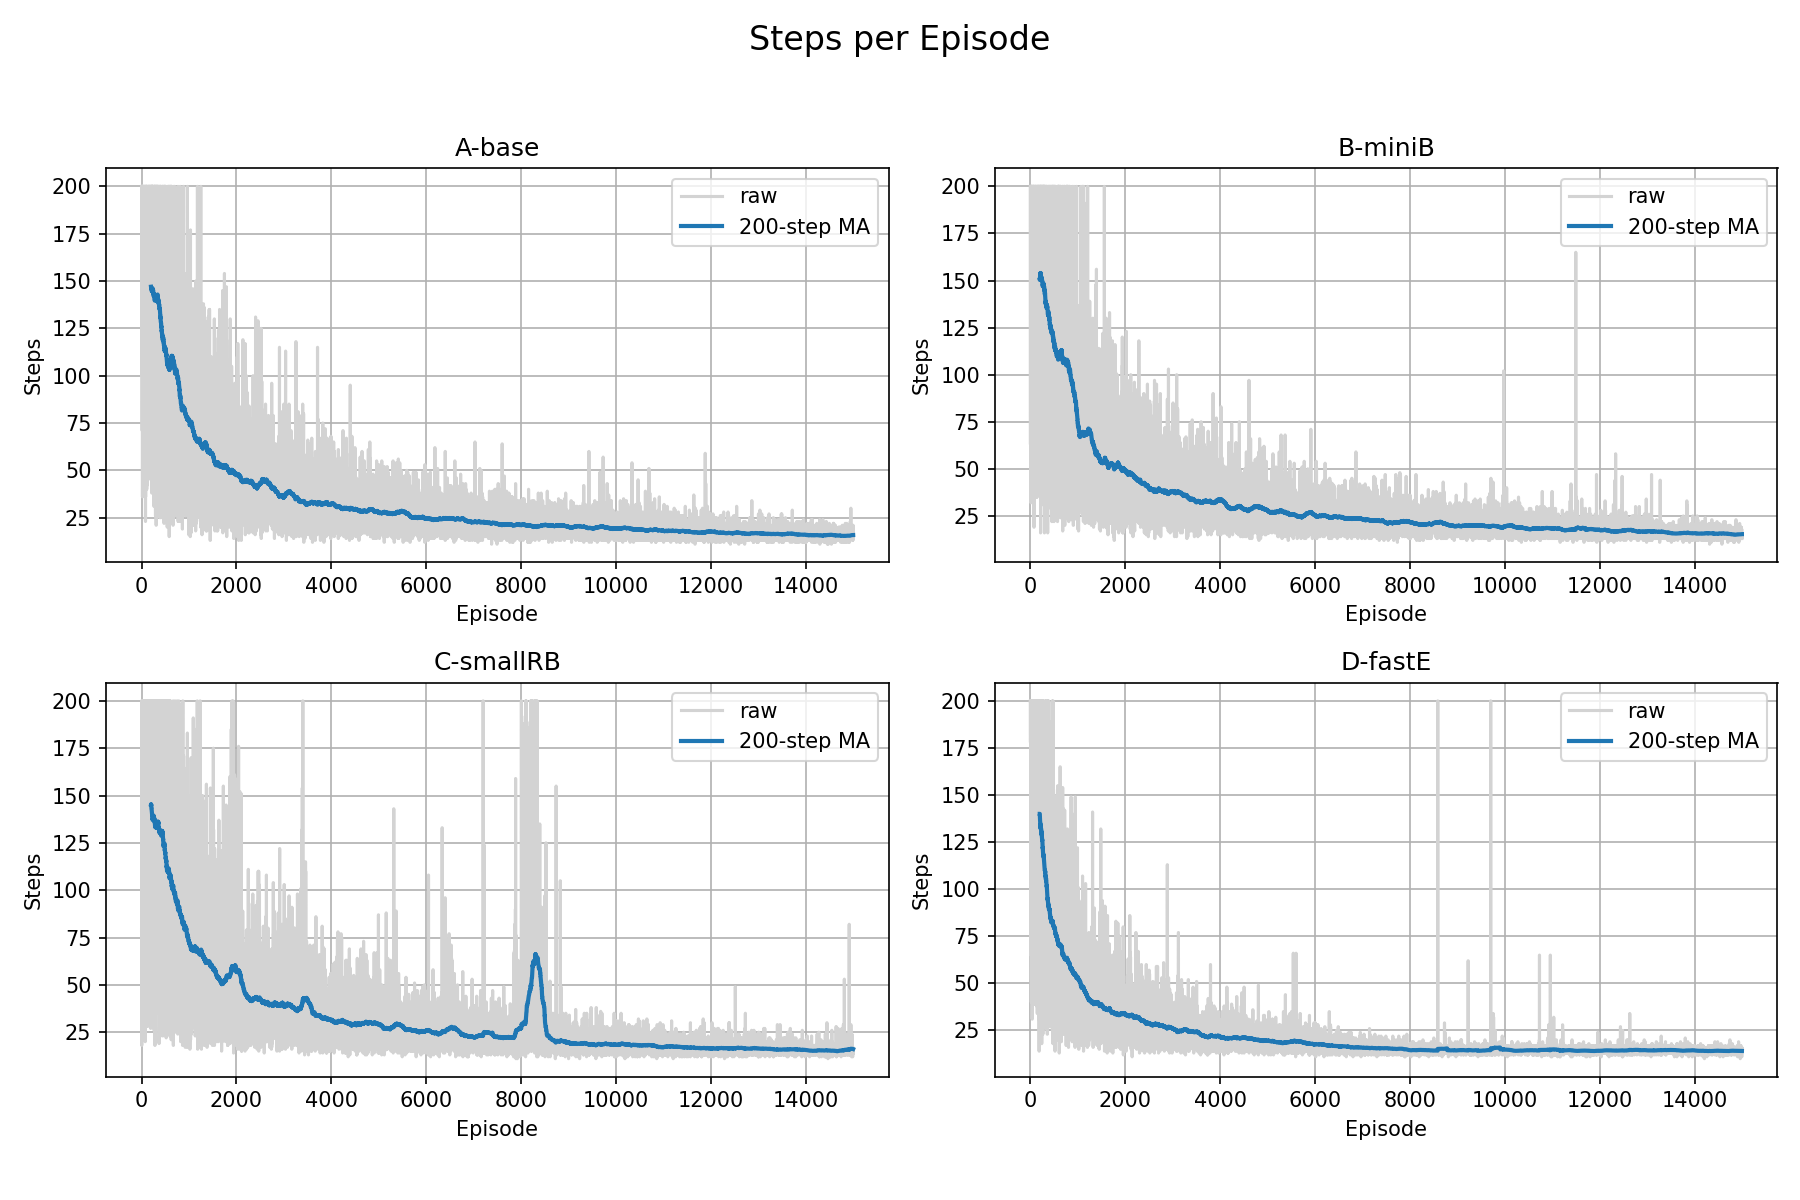
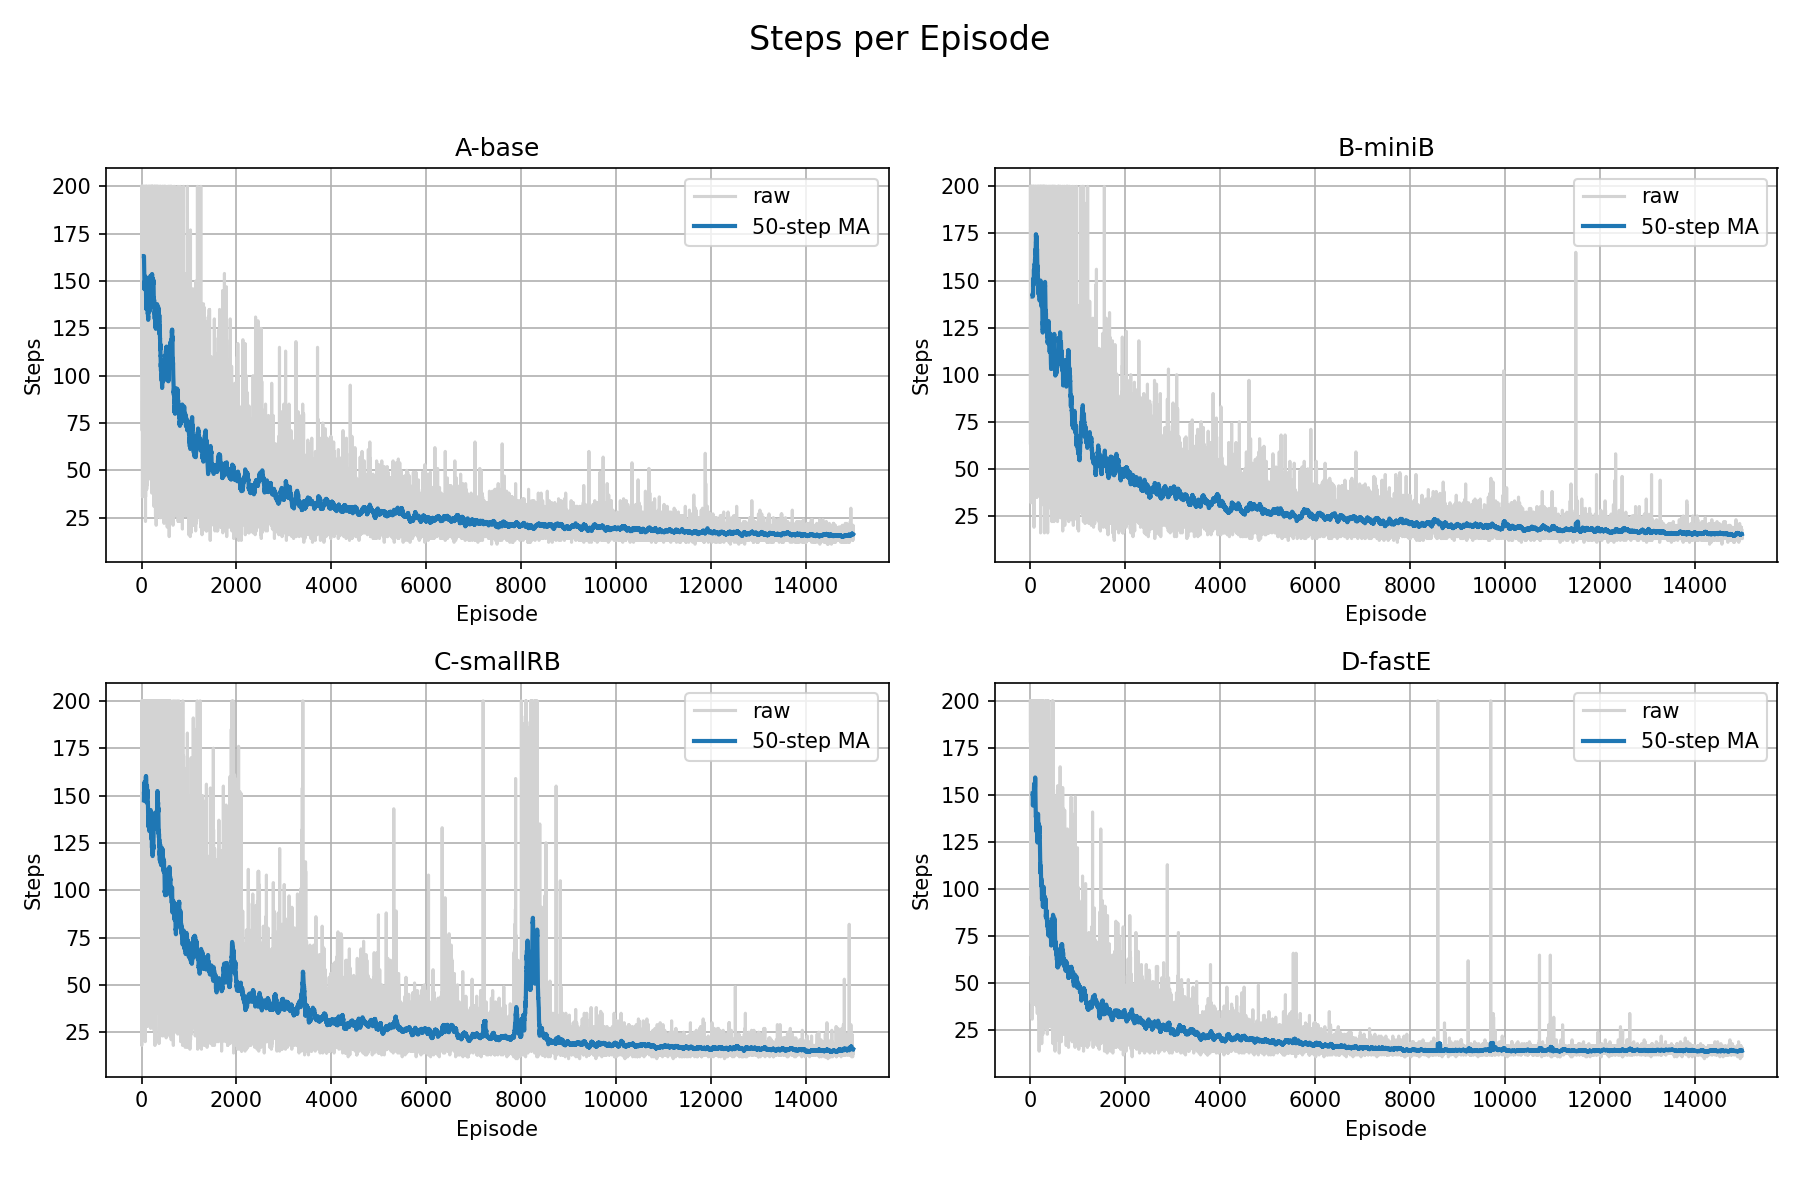
Update DQN plots

diff --git a/Deep_q-learning/SingleAgent_10x10/analyze.py b/Deep_q-learning/SingleAgent_10x10/analyze.py
@@ -8,7 +8,7 @@ import matplotlib.pyplot as plt
 # -----------------------------------------------------------------------------
 RESULTS_DIR   = Path("results")
 CONFIGS       = ["A-base", "B-miniB", "C-smallRB", "D-fastE"]
-SMOOTH_WINDOW = 200
+SMOOTH_WINDOW = 50
 FIGSIZE       = (12, 8)
 
 kernel = np.ones(SMOOTH_WINDOW) / SMOOTH_WINDOW

diff --git a/Deep_q-learning/SingleAgent_5x5/analyze.py b/Deep_q-learning/SingleAgent_5x5/analyze.py
@@ -8,7 +8,7 @@ import matplotlib.pyplot as plt
 # -----------------------------------------------------------------------------
 RESULTS_DIR   = Path("results")
 CONFIGS       = ["A-base", "B-miniB", "C-smallRB", "D-fastE"]
-SMOOTH_WINDOW = 200
+SMOOTH_WINDOW = 50
 FIGSIZE       = (12, 8)
 
 kernel = np.ones(SMOOTH_WINDOW) / SMOOTH_WINDOW
